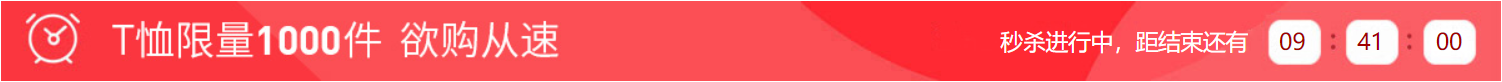
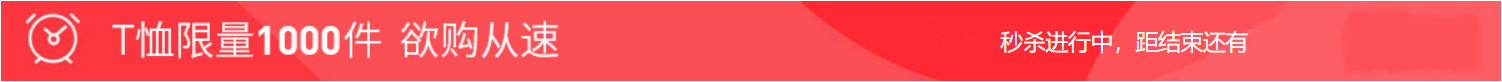
倒计时

Changed region(s): [[0.8269, 0.2195, 1.0, 0.8049]]

diff --git a/shouye/item.html b/shouye/item.html
@@ -204,6 +204,7 @@
     <div class="miaosha">
         <div class="miaosha-main">
             <a href="#"><img src="img/time.png" alt=""></a>
+            <div class="inp"><input type="text" id="in1"> : <input type="text" id="in2"> : <input type="text" id="in3"></div>
         </div>
     </div>
     <div class="miaoshalist">
@@ -449,5 +450,46 @@
         $(this).children('div').css('display', 'none');
     });
 </script>
-
+<script type="text/javascript">
+    var box = document.getElementsByTagName("input");
+    //活动结束 时间
+    var end = new Date("2019/6/4 18:00:00");
+    var now = new Date();
+    var timer = null;
+    //获取 两个时间的时间差
+    function getDiff(start,end){
+        return (end.getTime() - start.getTime())/1000;
+    }
+    compute();
+    
+    function compute(){
+            //获得秒数
+        var s = getDiff(now,end);
+        if(s < 0){
+            //box.innerHTML = "活动已过期";
+            clearInterval(timer);
+            return;
+        }
+        //console.log(s);
+        //计算时分秒
+        var hours = s/60/60;
+        var d = parseInt(hours/24);
+        var h = parseInt((hours/24 - d) * 24);
+        var m = parseInt(((hours/24 - d) * 24 - h) * 60);
+        var t = parseInt((((hours/24 - d) * 24 - h) * 60 - m) * 60);
+        
+        //box.innerHTML = "活动距现在还剩" + d +"天" + h + "时" + m + "分" + t + "秒结束";
+        in1.value = parseInt(s/60/60);
+        in2.value = m;
+        in3.value = t;
+    }
+    
+    //让这个时间差每秒钟递减
+    timer = setInterval(function(){
+        now = new Date();
+        compute();
+        console.log(1)
+    },1000);
+    
+</script>
 </html>

diff --git a/shouye/item.css b/shouye/item.css
@@ -150,11 +150,25 @@ h3{
     height: 64px;
     margin: 0 auto;
     margin-top: 20px;
+    position: relative;
 }
 
 .miaosha-main img {
     width: 1200px;
     height: 64px;
+}
+
+.miaosha-main input{
+    width: 40px;
+    height: 35px;
+    border-radius: 10px;
+    border: none;
+}
+
+.inp{
+    position: absolute;
+    right: 20px;
+    top:14px;
 }
 
 .miaoshalist-main {
